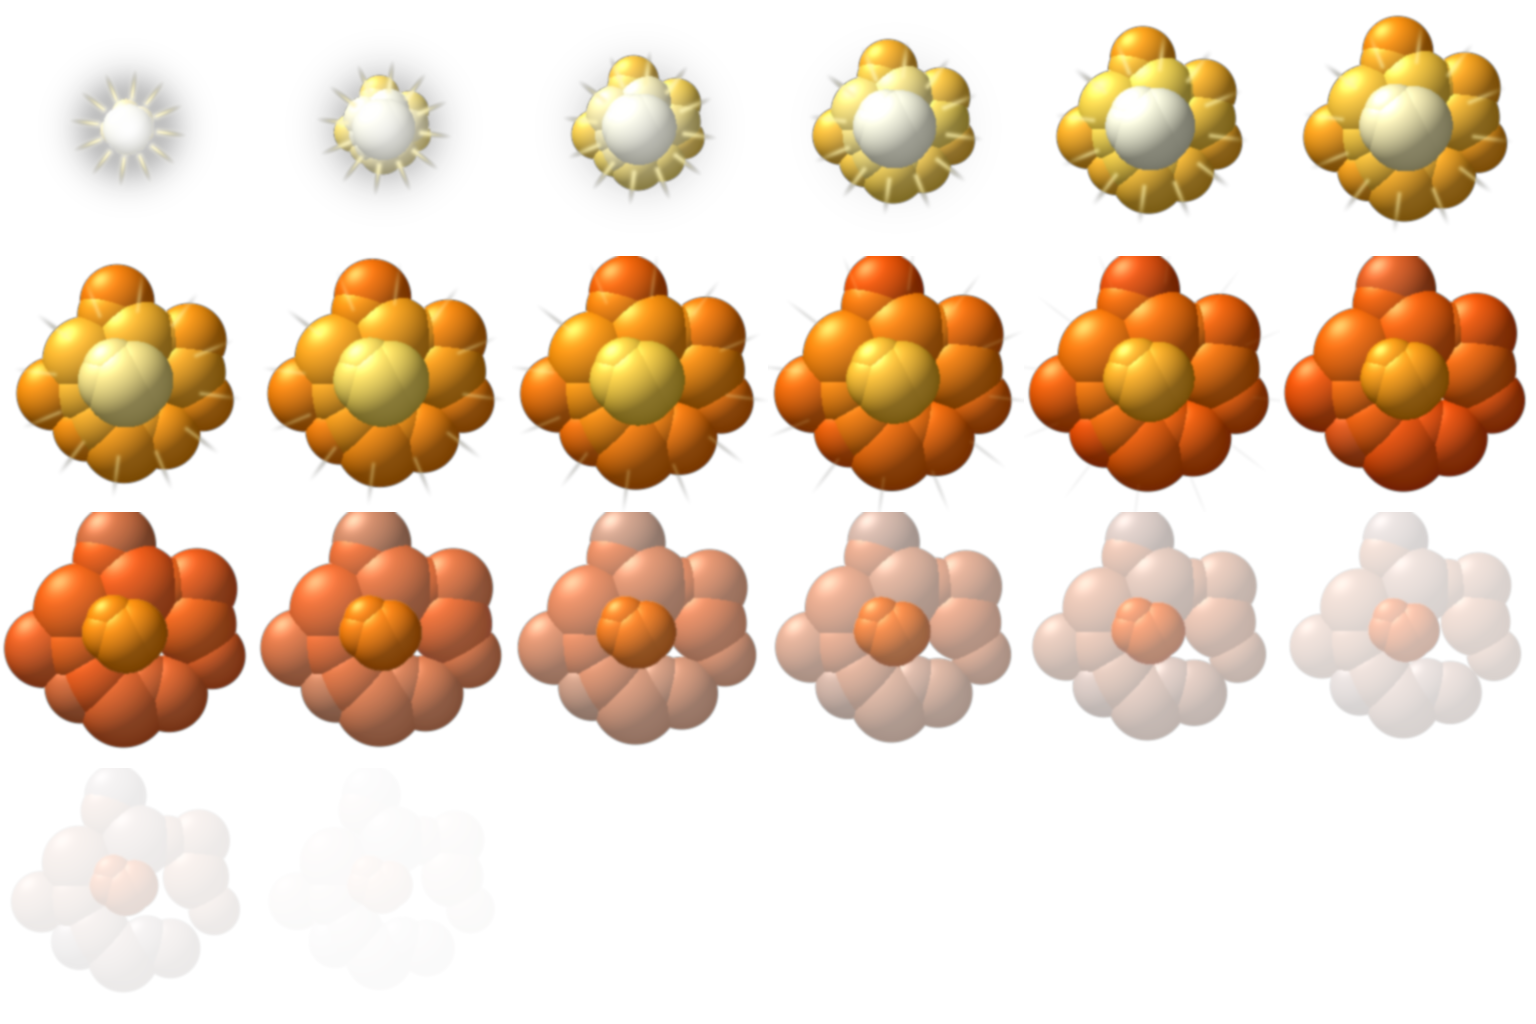
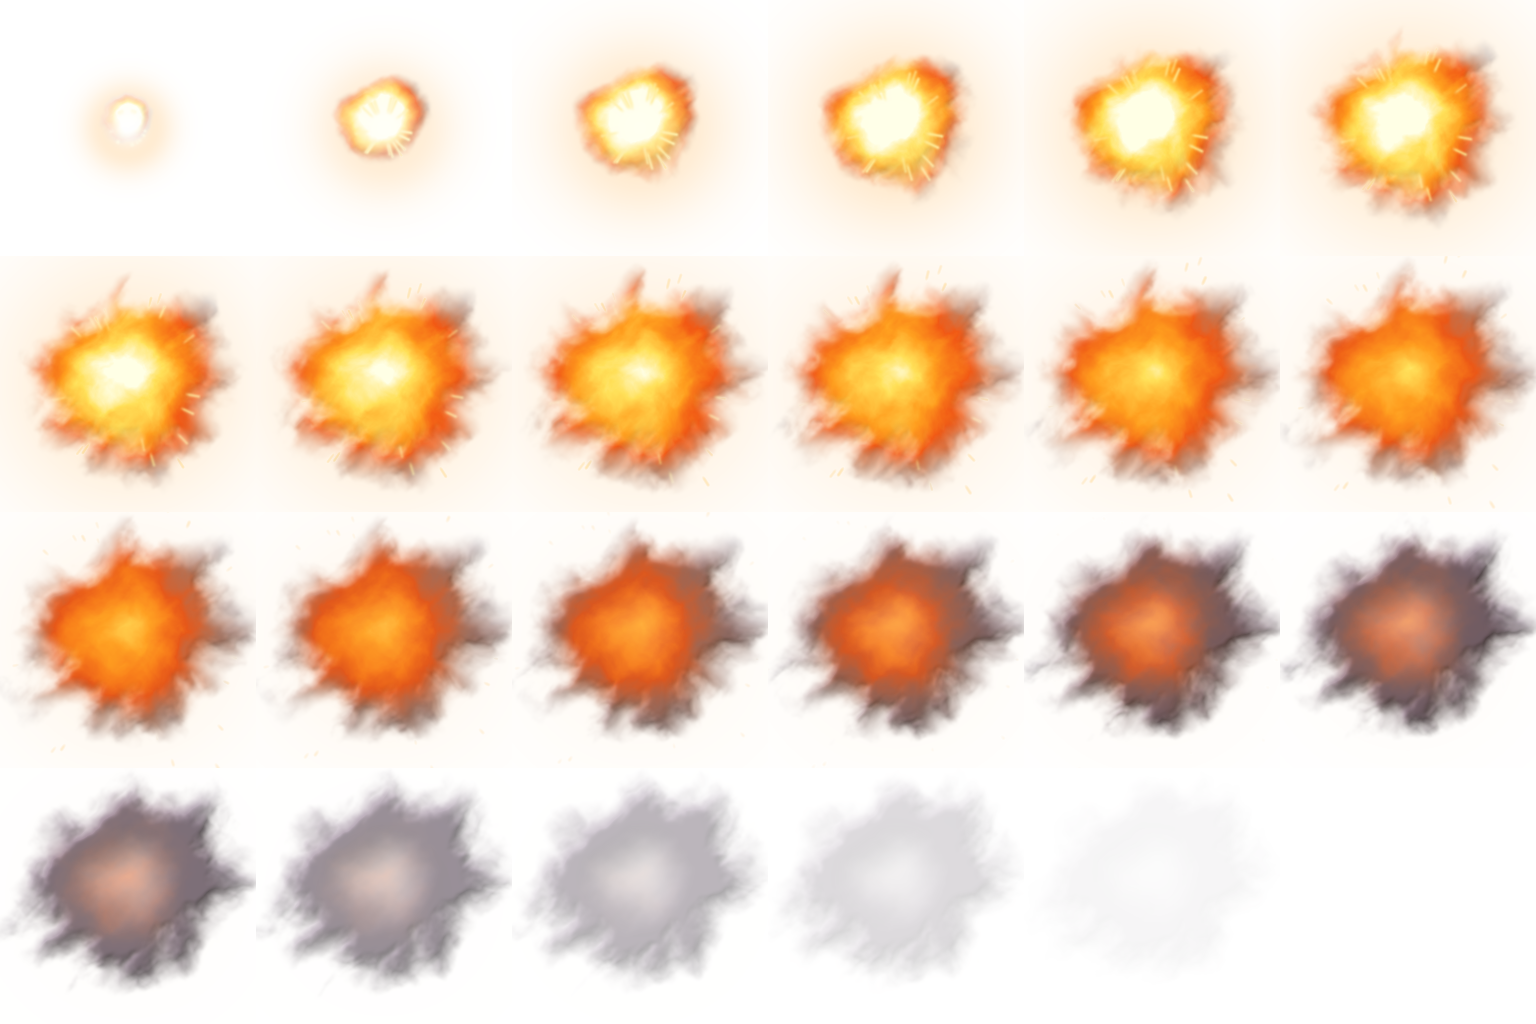
match3 2.12.1: new bomb explosion flipbook — turbulent fireball with ragged billowing edge, flame tongues, hot white-yellow core, sparks, cooling into dark smoke (was plastic-looking spheres)
Claude-Session: https://claude.ai/code/session_01EPojqP1q7RdAiWJjo1AnAr

diff --git a/match3/tools/gen_vfx.py b/match3/tools/gen_vfx.py
@@ -112,48 +112,71 @@ def fire_color(temp):
     return tuple(ramp(np.array([[temp]]))[0, 0])
 
 
-def explosion(size=256, n=22):
-    """Мультяшный взрыв из объёмных клубов: белое ядро → жёлто-оранжевый огонь → серый дым, искры-лучи."""
+def fbm(x, y, t, tex=None):
+    tex = NOISE if tex is None else tex
+    return (sample(tex, x, y) * 0.55 + sample(NOISE2, x * 2.1 + 0.37 * t, y * 2.1 - 0.29 * t) * 0.3
+            + sample(tex, x * 4.3 - 0.2 * t, y * 4.3 + 0.5) * 0.15)
+
+
+def explosion(size=256, n=24):
+    """Мультяшный огненный взрыв: вспышка → клубящийся огненный шар с рваным краем и языками пламени
+    (горячее ядро белое→жёлтое, край оранжево-красный) → остывает в тёмный дым и тает. Плюс искры."""
     x, y, r = grid(size)
-    base = []
-    for k in range(16):
-        th = k / 16 * 2 * np.pi + rng.uniform(-0.2, 0.2)
-        base.append((th, rng.uniform(0.45, 1.0), rng.uniform(0.75, 1.15), rng.uniform(0, 0.25)))
-    inner = [(rng.uniform(0, 2 * np.pi), rng.uniform(0.0, 0.35), rng.uniform(0.9, 1.2)) for _ in range(7)]
+    ang = np.arctan2(y, x)
+    sparks = [(rng.uniform(0, 2 * np.pi), rng.uniform(0.9, 1.5), rng.uniform(0.6, 1.0)) for _ in range(18)]
     frames = []
     for i in range(n):
         t = i / (n - 1)
-        grow = 1 - (1 - min(1.0, t / 0.55)) ** 3
-        puffs = []
-        for th, dist, rs, dl in base:
-            d = dist * (0.12 + 0.55 * grow) + 0.06 * t
-            rad = rs * (0.12 + 0.22 * grow) * (1 - 0.35 * max(0, t - 0.6) / 0.4)
-            temp = (1.15 - 1.05 * t ** 0.9) * (1.1 - 0.35 * dist) - dl * t
-            puffs.append((np.cos(th) * d, np.sin(th) * d - 0.08 * t, rad, fire_color(temp), 1 - smooth(0.5, 0.95, t), -dist * 0.2))
-        for th, dist, rs in inner:
-            d = dist * (0.1 + 0.35 * grow)
-            rad = rs * (0.16 + 0.2 * grow) * (1 - 0.6 * t)
-            temp = 1.3 - 1.1 * t ** 0.8
-            puffs.append((np.cos(th) * d, np.sin(th) * d - 0.1 * t, rad, fire_color(temp), 1 - smooth(0.6, 0.95, t), 0.3))
-        f = puffs_render(size, puffs)
-        # искры-лучи
-        if t < 0.5:
-            for k in range(12):
-                th = k / 12 * 2 * np.pi + 0.13
-                d0, d1 = 0.2 + 1.2 * t, 0.36 + 1.4 * t
-                pxx = np.cos(th) * x + np.sin(th) * y
-                pyy = -np.sin(th) * x + np.cos(th) * y
-                m = np.exp(-(pyy / (0.024 * (1 - t))) ** 2) * smooth(d0, d0 + 0.04, pxx) * smooth(d1 + 0.15, d1 - 0.1, pxx) * (1 - t / 0.5)
-                f[..., :3] = f[..., :3] * (1 - m[..., None]) + np.array([1.0, 0.95, 0.65]) * m[..., None]
+        grow = 1 - (1 - min(1.0, t / 0.45)) ** 3
+        R = 0.18 + 0.62 * grow + 0.08 * t
+        # искажение пространства — клубы «текут» наружу и вверх
+        wx = (sample(NOISE, x * 0.3 + 0.1, y * 0.3 + 0.3 + 0.05 * t) - 0.5) * 0.3
+        wy = (sample(NOISE, x * 0.3 + 0.6, y * 0.3 - 0.2 - 0.05 * t) - 0.5) * 0.3
+        xx, yy = x + wx, y + wy + 0.12 * t * t
+        rr = np.sqrt(xx * xx + yy * yy)
+        billow = fbm(xx * 0.45 - 0.08 * t, yy * 0.45 + 0.15 * t, t * 3)
+        tongues = (np.sin(ang * 9 + billow * 6) * 0.5 + 0.5) ** 3 * smooth(0.0, 0.5, t) * (1 - t)
+        edge = rr / R + (billow - 0.5) * 0.7 - tongues * 0.22
+        dens = smooth(1.08, 0.62, edge)
+        # к концу середина выгорает
+        dens *= 1 - 0.6 * smooth(0.45, 1.0, t) * smooth(0.55, 0.0, rr / R)
+        heat = (1.0 - rr / R) * 1.25 + (billow - 0.5) * 0.7
+        heat = heat * (1.15 - 1.05 * t ** 0.75) + 0.35 * (1 - t)
+        col = ramp(heat)
+        # мягкий объём: подсветка сверху-слева по градиенту плотности
+        sh = shade(dens, 0.55)[..., None]
+        # объём без смены оттенка: тень — темнее, свет — к белому (иначе край зеленит)
+        col = np.where(sh < 1, col * (0.75 + 0.25 * sh), col + (1 - col) * np.clip(sh - 1, 0, 1) * 0.35)
+        col = np.clip(col, 0, 1)
+        # дым темнеет и сереет к концу
+        smoke_k = smooth(0.35, 0.9, t) * smooth(0.55, 0.15, heat)
+        col = col * (1 - smoke_k[..., None]) + np.array([0.33, 0.28, 0.34]) * smoke_k[..., None] * shade(dens, 0.9)[..., None]
+        a = dens * (1 - smooth(0.7, 1.0, t))
+        a = gaussian_filter(a, 0.8)
+        f = np.zeros((size, size, 4))
+        f[..., :3] = np.clip(col, 0, 1)
+        f[..., 3] = np.clip(a, 0, 1)
+        # свечение вокруг огня (пока горячо)
+        glow = np.exp(-(r / (R * 1.25)) ** 2) * (1 - t) ** 2 * 0.55
+        add = glow * (1 - f[..., 3])
+        f[..., :3] = (f[..., :3] * f[..., 3:4] + np.array([1.0, 0.7, 0.3]) * add[..., None]) / np.maximum(f[..., 3:4] + add[..., None], 1e-4)
+        f[..., 3] = np.clip(f[..., 3] + add, 0, 1)
+        # искры с хвостами
+        if t < 0.75:
+            for th, sp, br in sparks:
+                d1 = 0.15 + sp * (1 - (1 - t) ** 2) * 0.95
+                d0 = max(0.1, d1 - 0.18 * (1 - t))
+                px = np.cos(th) * x + np.sin(th) * y
+                py = -np.sin(th) * x + np.cos(th) * y + 0.25 * t * t * np.cos(th - np.pi / 2)
+                m = np.exp(-(py / 0.014) ** 2) * smooth(d0, d0 + 0.05, px) * smooth(d1 + 0.01, d1 - 0.02, px)
+                m = m * br * (1 - t / 0.75)
+                f[..., :3] = f[..., :3] * (1 - m[..., None]) + np.array([1.0, 0.92, 0.55]) * m[..., None]
                 f[..., 3] = np.maximum(f[..., 3], m)
-        # белая вспышка в первых кадрах
-        if t < 0.18:
-            fl = np.exp(-(r / (0.3 + 0.8 * t)) ** 2) * (1 - t / 0.18)
+        # белая вспышка в начале
+        if t < 0.15:
+            fl = np.exp(-(r / (0.25 + 1.2 * t)) ** 2) * (1 - t / 0.15)
             f[..., :3] = f[..., :3] * (1 - fl[..., None]) + fl[..., None]
             f[..., 3] = np.maximum(f[..., 3], fl)
-        # мягкость: лёгкое размытие, чтобы клубы не выглядели пластиковыми
-        for ch in range(4):
-            f[..., ch] = gaussian_filter(f[..., ch], 1.1)
         frames.append(f)
     save("explosion", frames, 6)
 
